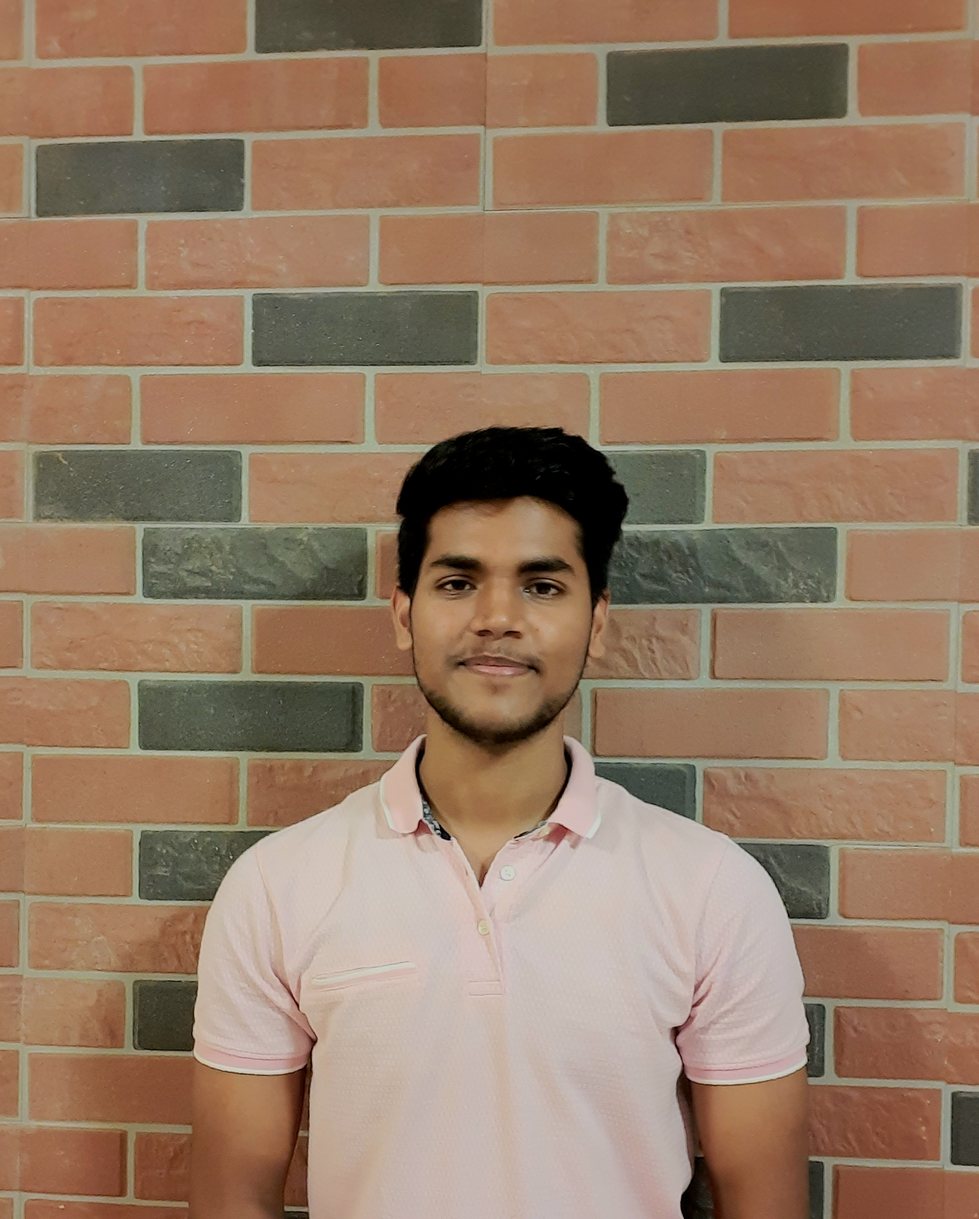
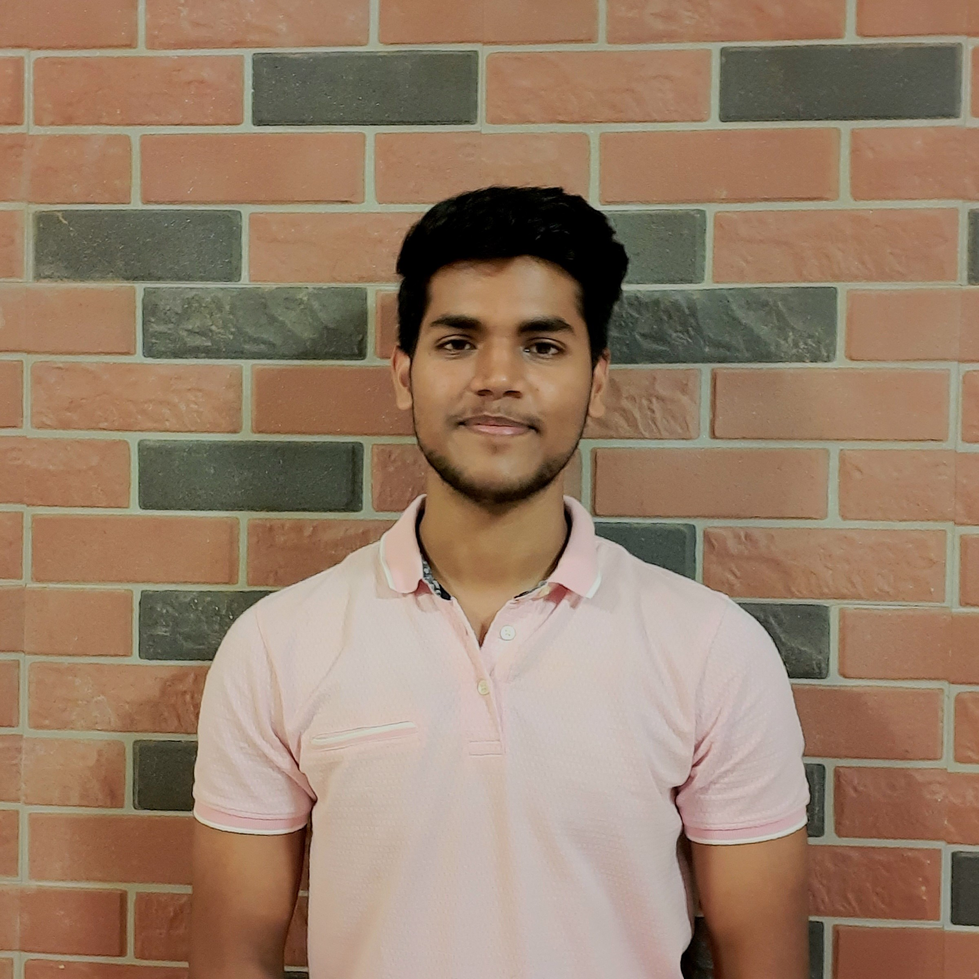
Images
media query and svg files

diff --git a/HTML/index/homepage.html b/HTML/index/homepage.html
@@ -13,7 +13,7 @@
 		integrity="sha384-OERcA2EqjJCMA+/3y+gxIOqMEjwtxJY7qPCqsdltbNJuaOe923+mo//f6V8Qbsw3"
 		crossorigin="anonymous"></script>
 
-	<link rel="stylesheet" type="text/css" href="https://ssy2306.github.io/CSS/index.css">
+	<link rel="stylesheet" type="text/css" href="D:\Portfolio\CSS\index.css">
 	<link rel="icon" href="icon.ico">
 	<link
 		href="https://fonts.googleapis.com/css2?family=Dancing+Script&family=Kaushan+Script&family=Open+Sans&family=Sacramento&display=swap"
@@ -67,7 +67,7 @@
 					</center>
 					</div>
 					<div class="col-lg-4  custom">
-						<img src="me.png" align="right" width="400px" height="400px" style=" border-radius: 50%;">
+						<img src="1.jpg" align="right" width="400px" height="400px" style=" border-radius: 100%;">
 					</div>
 
 				</div>
@@ -77,7 +77,7 @@
 		<div class="container-fluid">
 			<div class="row">
 				<div class="col-lg-4  intro-text">
-					<img src="editme2.jpg" align="left" width="400px" height="400px"
+					<img src="me3.jpg" align="left" width="400px" height="400px"
 						style="align-items: left;border-radius: 50%;">
 				</div>
 				<div class="col-lg-8  intro-text" style="padding: 3rem;">

diff --git a/CSS/index.css b/CSS/index.css
@@ -112,6 +112,7 @@ body{
 	color: white;
 	padding-bottom: 1rem;
 }
+
 @media (max-width:500px){
 
     #about img{
@@ -122,3 +123,4 @@ body{
 
 	}
 }
+
